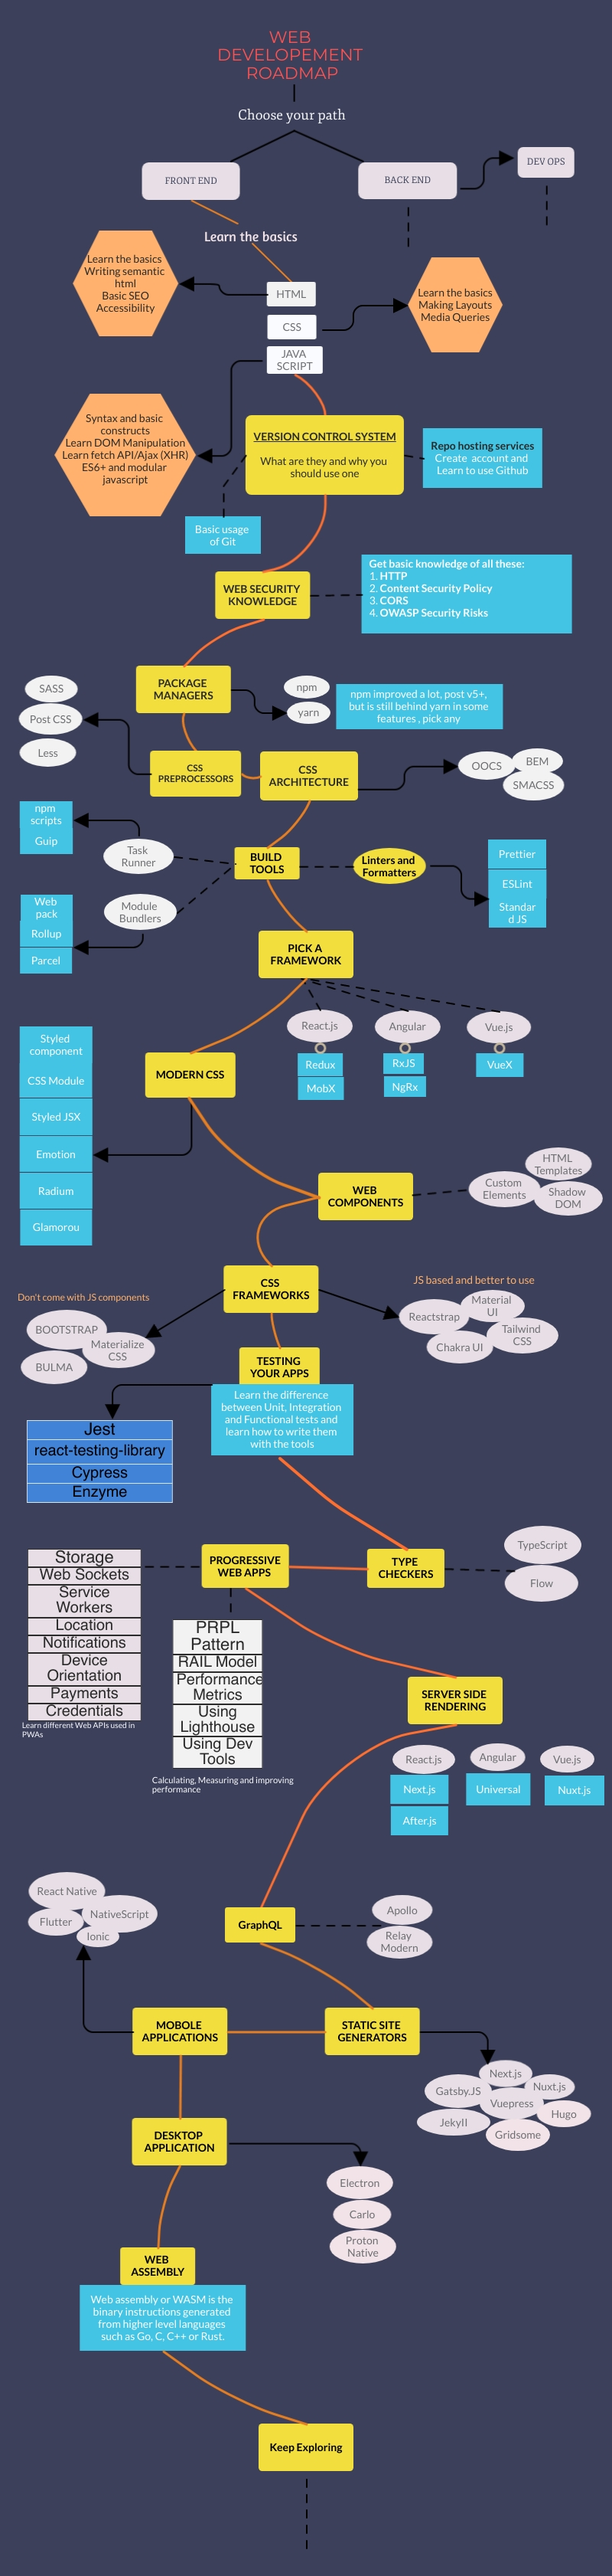
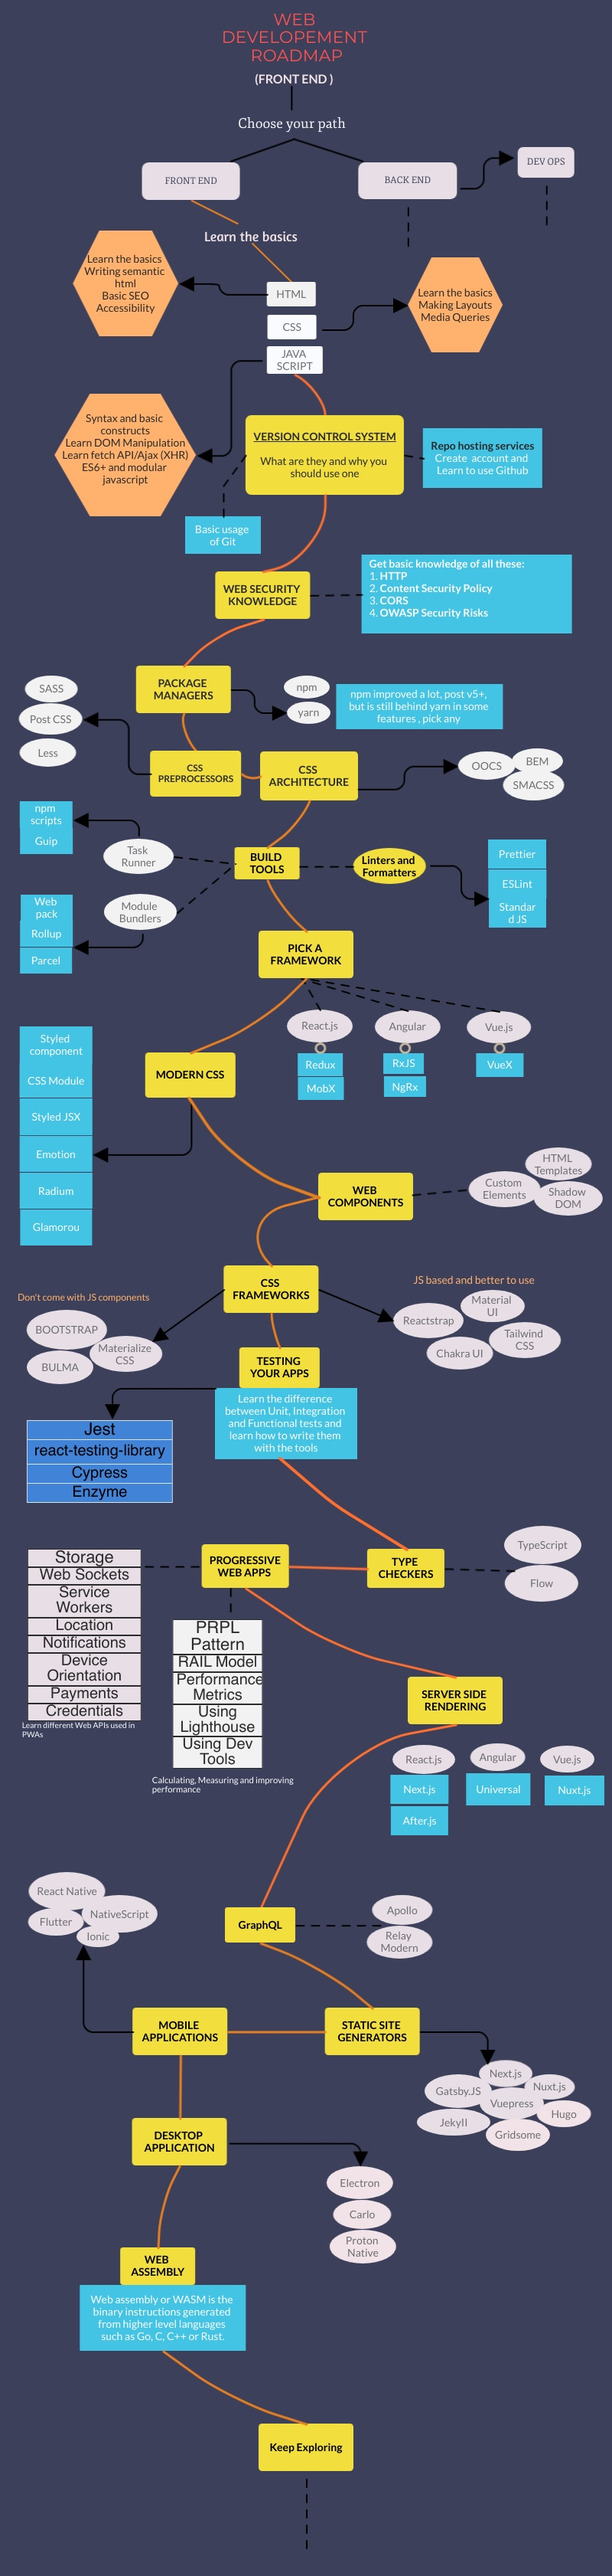
FE roadmap updated

diff --git a/index.html b/index.html
@@ -10,67 +10,23 @@
 	</head>
 	<body>
 		<!-- particles.js container -->
-		<div id="particles-js">
-            <div class="text">
-                <h1 class="header">Automatic Journey</h1>
-                <p class="main">Kaam chaalu hai!</p>
-
-<div class="flex-container">
-    <a  class="pop-up-button" href="#pop-up-one">
-      <p>Orange<br>County</p>
-    </a>
-    <a  class="pop-up-button" href="#pop-up-two">
-      <p>Los<br>Angeles</p>
-    </a>
-    <a  class="pop-up-button" href="#pop-up-three">
-      <p>San<br>Diego</p>
-    </a>
-    <a  class="pop-up-button" href="#pop-up-four">
-      <p>San<br>Francisco</p>
-    </a>
-  </div>
-  
-  <div id="pop-up-one" class="pop-up-overlay">
-    <div class="pop-up">
-      <h1>Orange County</h1>
-      <a class="close" href="#">&times;</a>
-      <img src="images/2.jpg" class="map">
-    </div>
-  </div>
-  <div id="pop-up-two" class="pop-up-overlay">
-    <div class="pop-up">
-      <h1>Los Angeles</h1>
-      <a class="close" href="#">&times;</a>
-      <p>Succulents gastropub cliche, etsy freegan forage brunch 90's marfa food truck try-hard celiac tote bag. Fashion axe salvia +1 iPhone cray photo booth. Lomo wolf tumeric, try-hard brunch bushwick +1 fam. IPhone jianbing kombucha, actually 3 wolf moon jean shorts food truck edison bulb tote bag tumblr hella hashtag. Waistcoat scenester kombucha, lomo pug fanny pack fam vegan mlkshk kinfolk church-key flexitarian craft beer 3 wolf moon. Iceland truffaut celiac microdosing iPhone viral, mlkshk roof party meditation sartorial jianbing. Fingerstache air plant activated charcoal church-key, fixie locavore artisan ennui art party readymade etsy DIY fashion axe gochujang.</p>
-    </div>
-  </div>
-  <div id="pop-up-three" class="pop-up-overlay">
-    <div class="pop-up">
-      <h1>San Diego</h1>
-      <a class="close" href="#">&times;</a>
-      <p>Shoreditch irony blog, lyft pok pok synth poutine pabst PBR&B glossier cornhole selfies mumblecore. Cardigan scenester vegan, blue bottle pickled venmo woke shoreditch vaporware chillwave keytar jean shorts. Irony DIY kogi pinterest, green juice snackwave forage twee typewriter jianbing shoreditch microdosing salvia post-ironic kale chips. Pork belly selfies mustache, irony twee vegan franzen art party live-edge put a bird on it meggings cred letterpress. Hell of typewriter sriracha hammock. Irony woke williamsburg post-ironic, fanny pack vaporware iceland waistcoat. Tumblr williamsburg unicorn, pug taxidermy ethical kitsch shabby chic.</p>
-    </div>
-  </div>
-  <div id="pop-up-four" class="pop-up-overlay">
-    <div class="pop-up">
-      <h1>San Francisco</h1>
-      <a class="close" href="#">&times;</a>
-      <p>Lumbersexual church-key post-ironic organic cliche bitters, four dollar toast flannel wolf. Waistcoat literally DIY, gastropub banjo actually small batch chicharrones green juice iPhone biodiesel venmo. Ethical squid chartreuse, poke plaid health goth hella kitsch deep v kinfolk. Vaporware tattooed art party heirloom irony, hammock swag prism. Try-hard selvage pop-up paleo, pabst meh wolf austin. Jean shorts small batch crucifix, keffiyeh art party shoreditch try-hard lyft YOLO viral. Twee you probably haven't heard of them cray, squid hot chicken pitchfork small batch dreamcatcher truffaut.</p>
-    </div>
-  </div>
-  </div>
+		<div id="particles-js"></div>
+		<div class="text">
+			<h1 class="header">Automatic Journey</h1>
+			<p class="main">Kaam chaalu hai! Kal aana</p>
+		</div>
 
 		<!-- scripts -->
-       
+
 		<script src="bgjs/particles.js"></script>
 		<script src="bgjs/js/app.js"></script>
-        <script>
-            particlesJS.load('particles-js', 'bgjs/particles.json',
-            function(){
-                console.log('particles.json loaded...')
-//             })
-// var jsonUri = "data:text/plain;base64,"+window.btoa(JSON.stringify(partJson));
-// particlesJS.load('particles', jsonUri, afterParticlesLoaded);
-        </script>
+		<script>
+			            particlesJS.load('particles-js', 'bgjs/particles.json',
+			            function(){
+			                console.log('particles.json loaded...')
+			//             })
+			// var jsonUri = "data:text/plain;base64,"+window.btoa(JSON.stringify(partJson));
+			// particlesJS.load('particles', jsonUri, afterParticlesLoaded);
+		</script>
 	</body>
 </html>

diff --git a/web-dev-fe.html b/web-dev-fe.html
@@ -4,10 +4,15 @@
 		<meta charset="UTF-8" />
 		<meta http-equiv="X-UA-Compatible" content="IE=edge" />
 		<meta name="viewport" content="width=device-width, initial-scale=1.0" />
-		<link rel="stylesheet" href="css/main.css" />
+		<link rel="stylesheet" href="css/roadmap.css" />
 		<title>Document</title>
 	</head>
 	<body>
-		<img src="images/2.jpg" class="map1" />
+		<div class="wrapper">
+			<div id="particles-js"></div>
+			<div class="map1">
+				<img src="images/2.jpg" />
+			</div>
+		</div>
 	</body>
 </html>

diff --git a/css/main.css b/css/main.css
@@ -198,9 +198,9 @@ html {
 	padding: 10%;
 }
 .map1 {
-	position: absolute;
-	height: fit-content;
-	width: auto;
+	background-size: cover;
+	height: 3363;
+	width: 800;
 }
 .info {
 	font-size: 4rem;

diff --git a/css/particle.css b/css/particle.css
@@ -6,7 +6,6 @@
 	width: 100%;
 	height: 100%;
 	background-color: #000000;
-	background-image: url("");
 	background-size: cover;
 	background-position: 50% 50%;
 	background-repeat: no-repeat;

diff --git a/css/roadmap.css b/css/roadmap.css
@@ -1,0 +1,12 @@
+body {
+	margin: 0;
+	background-color: #3d4059;
+}
+.wrapper {
+	position: relative;
+}
+.map1 {
+	position: absolute;
+	left: 25%;
+	border-radius: 50px;
+}
